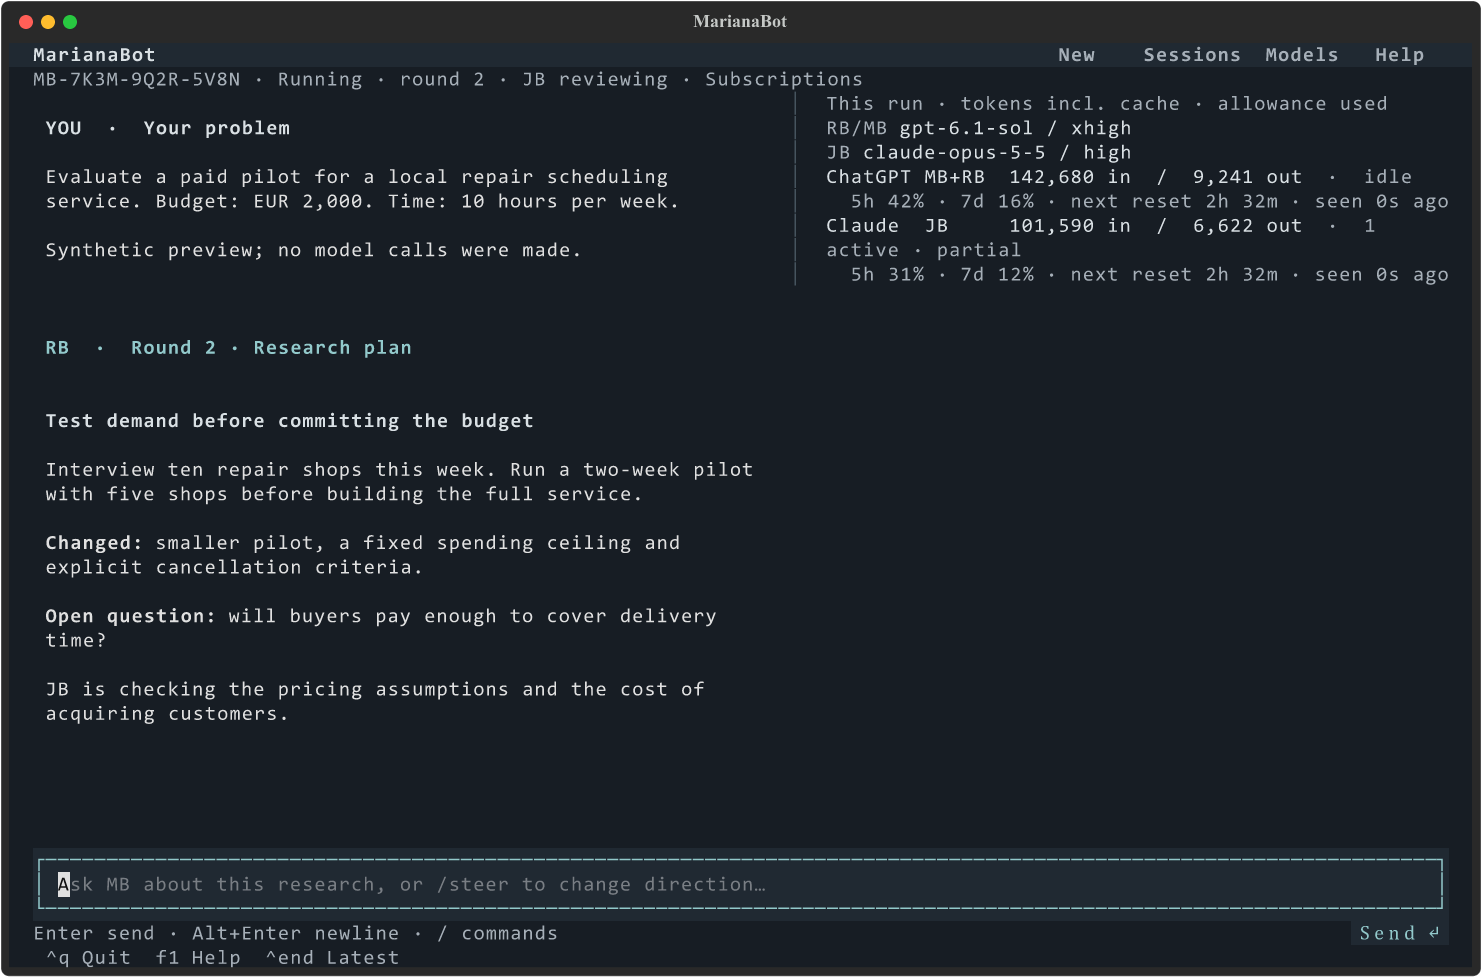
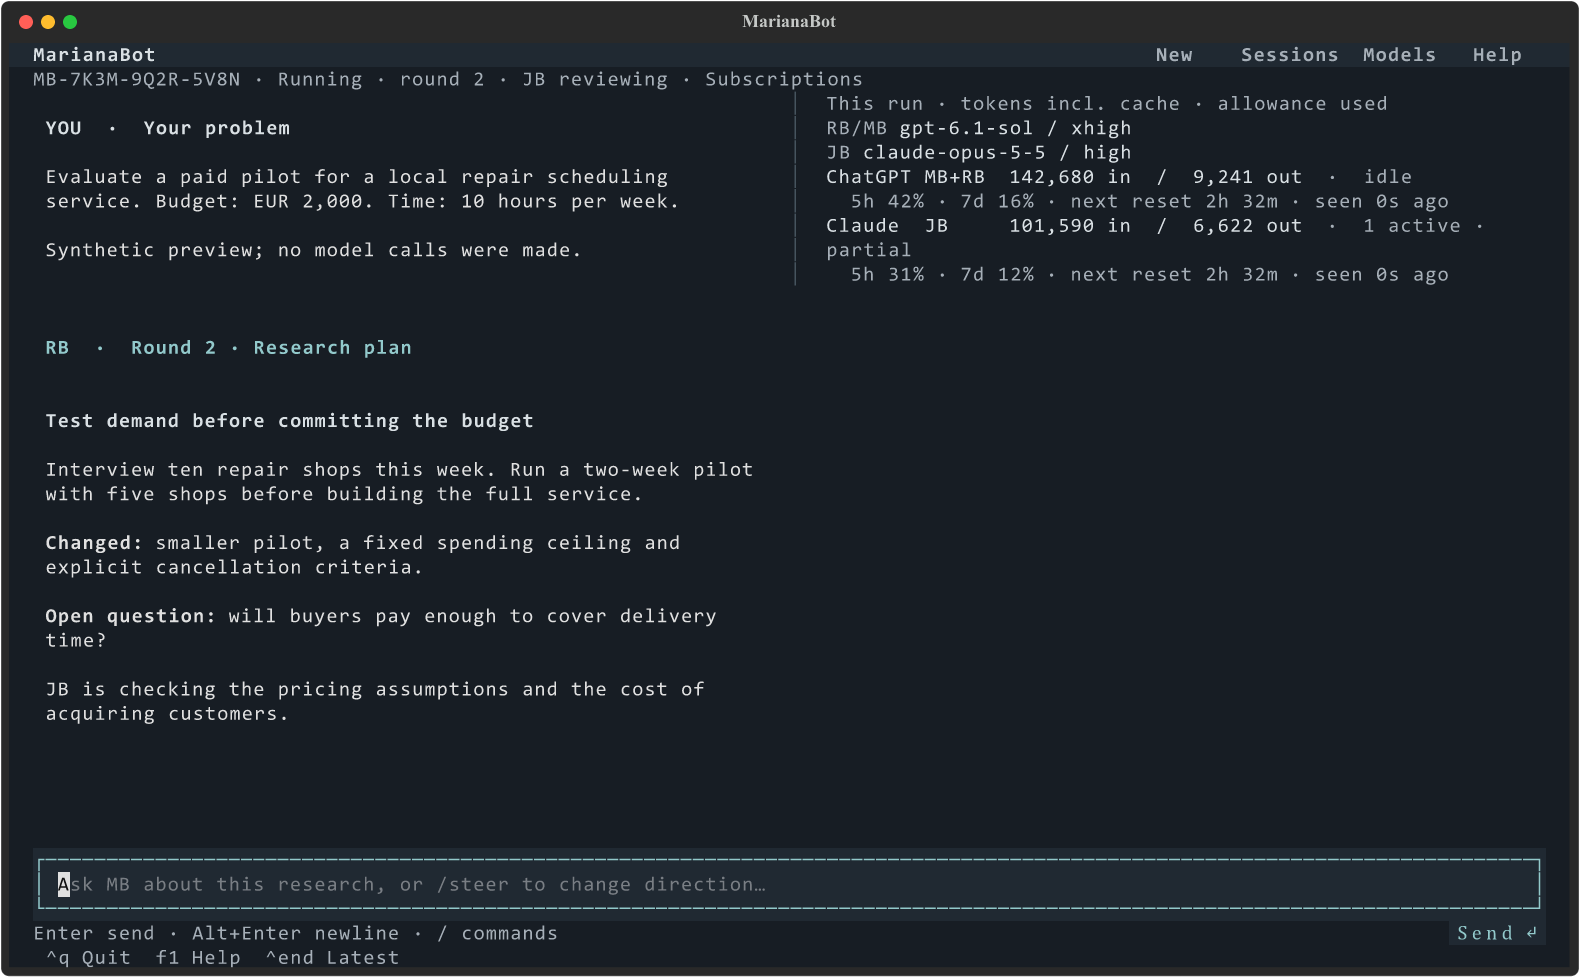
Widen info panel

diff --git a/scripts/capture_chat.py b/scripts/capture_chat.py
@@ -140,7 +140,7 @@ async def main(output: Path):
 
         app = MarianaChat(fixture, state / "mariana.toml", run_id=run_id, manager=PreviewManager())
         with patch.object(app, "request_usage_refresh", return_value=None):
-            async with app.run_test(size=(120, 38)) as pilot:
+            async with app.run_test(size=(128, 38)) as pilot:
                 await pilot.pause(1)
                 app.save_screenshot("usage.svg", path=str(output))
                 await pilot.resize_terminal(80, 24)
